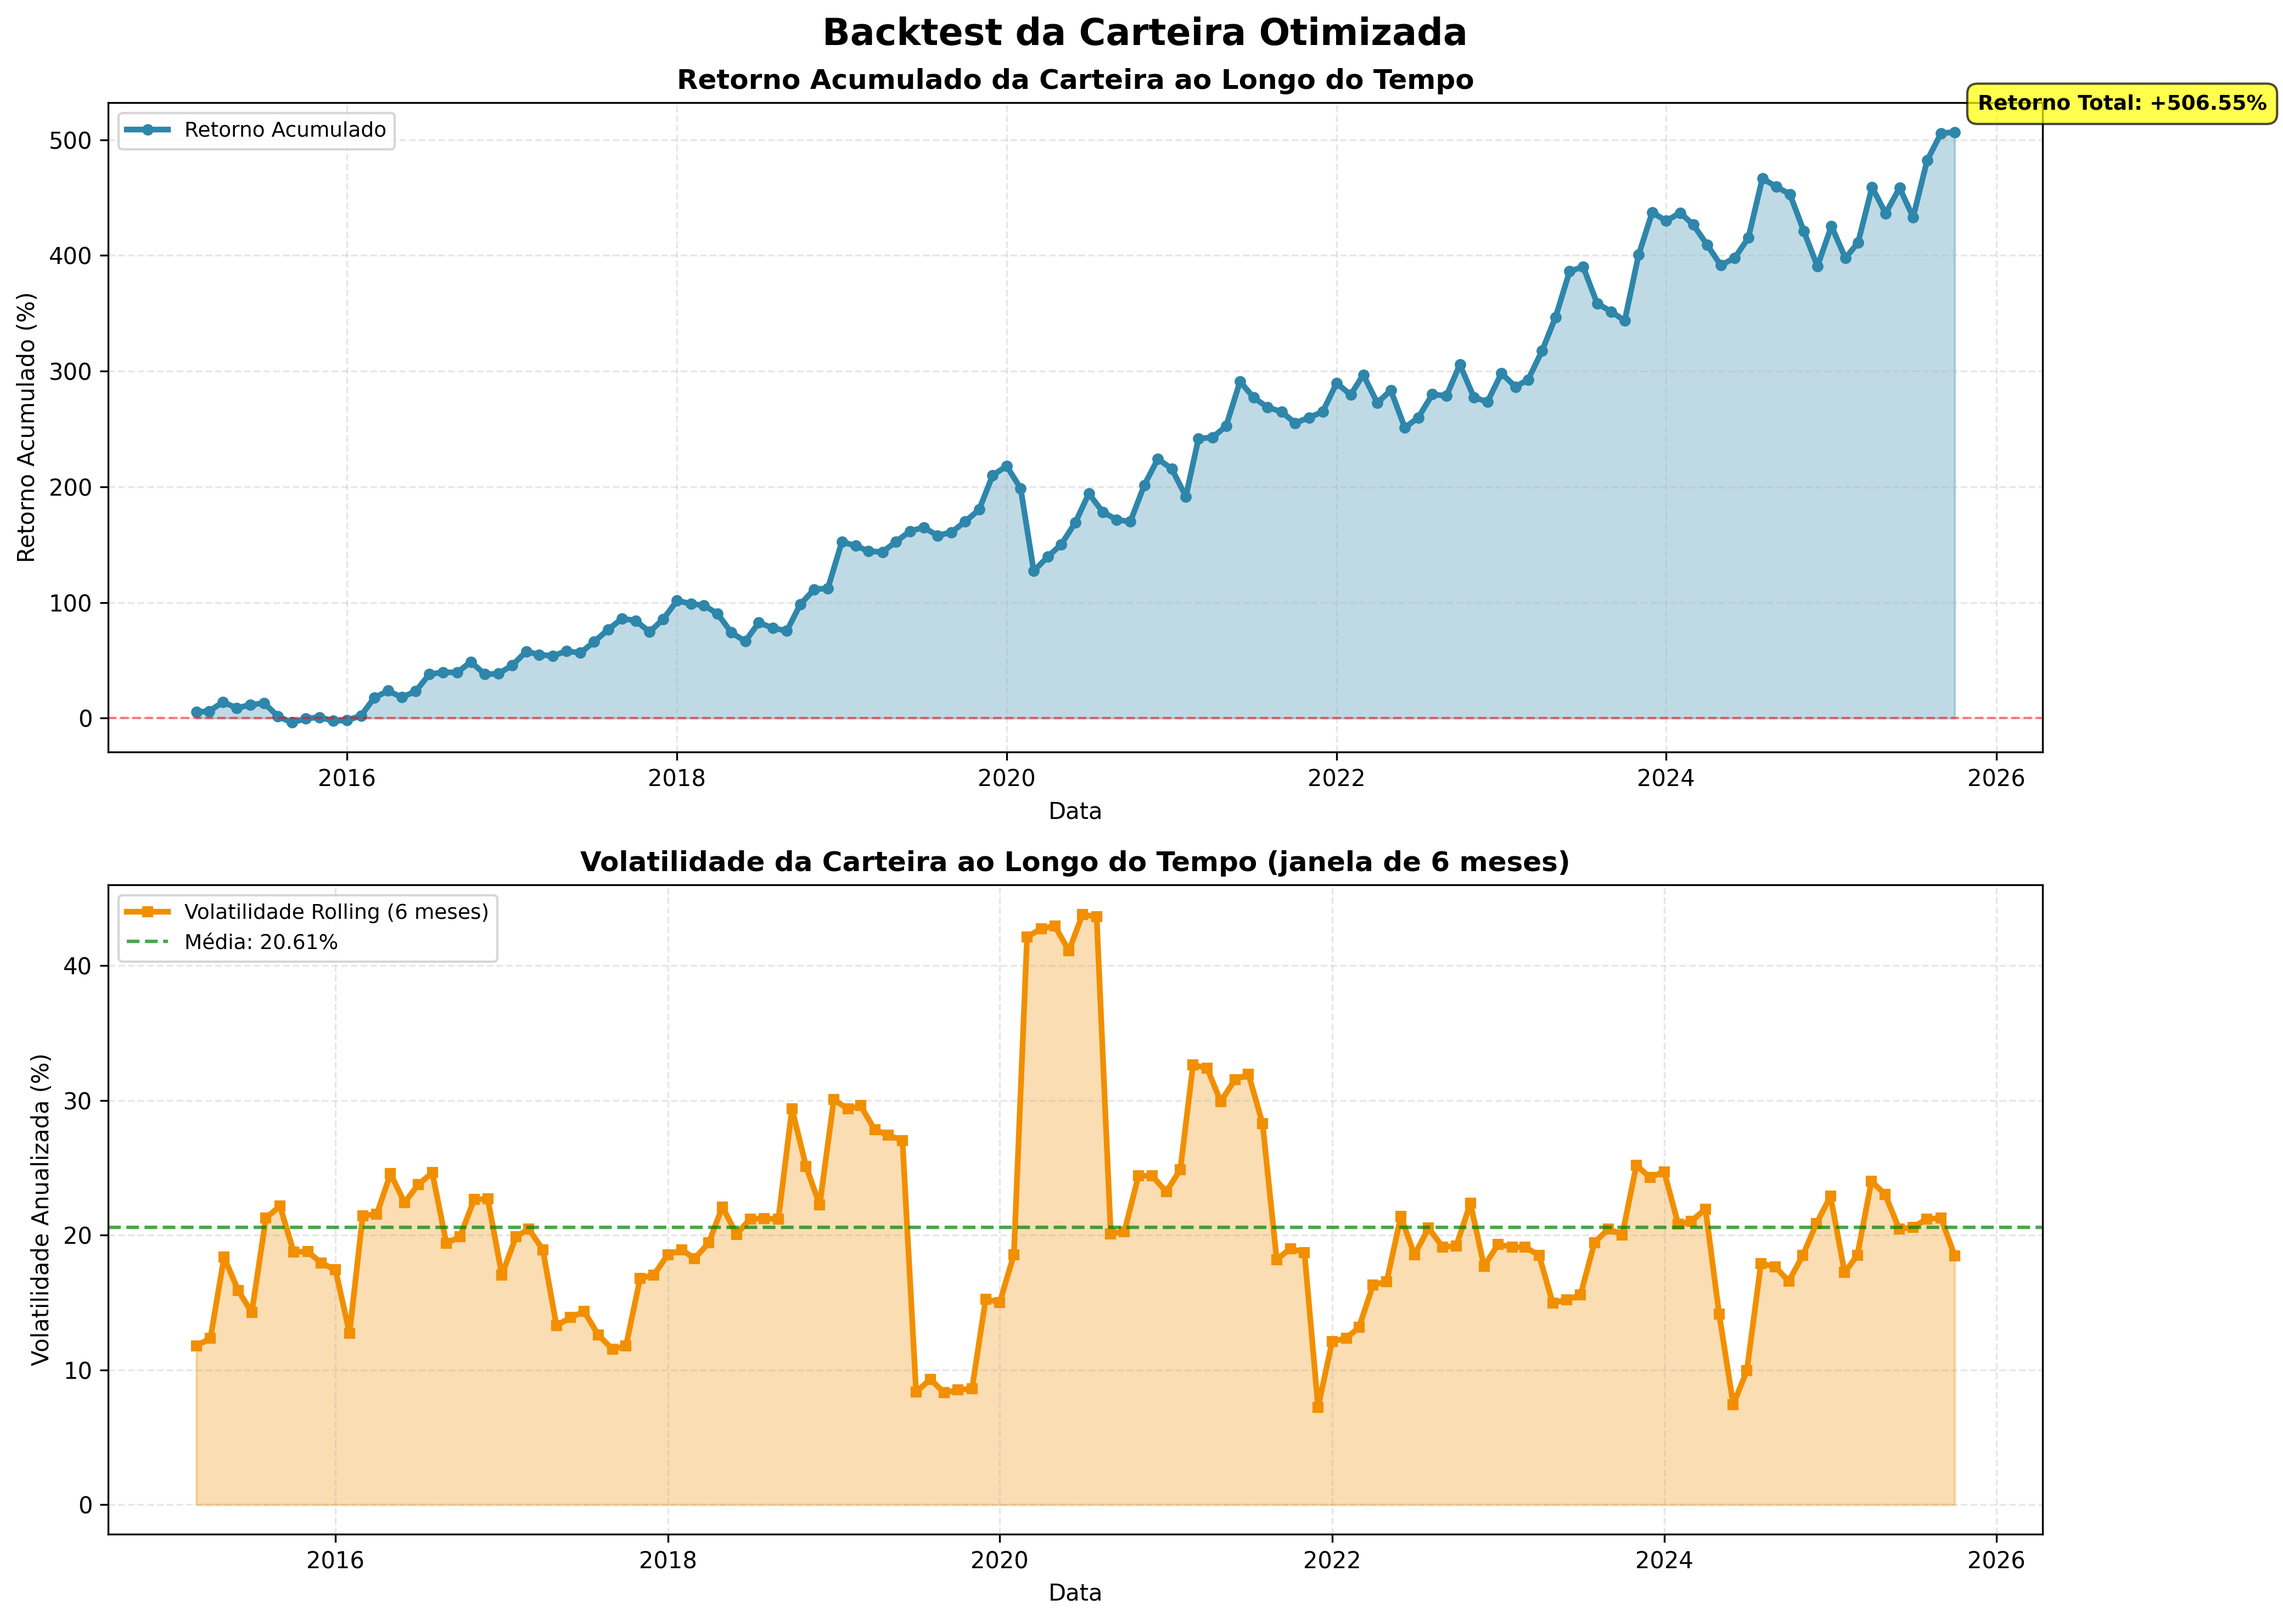
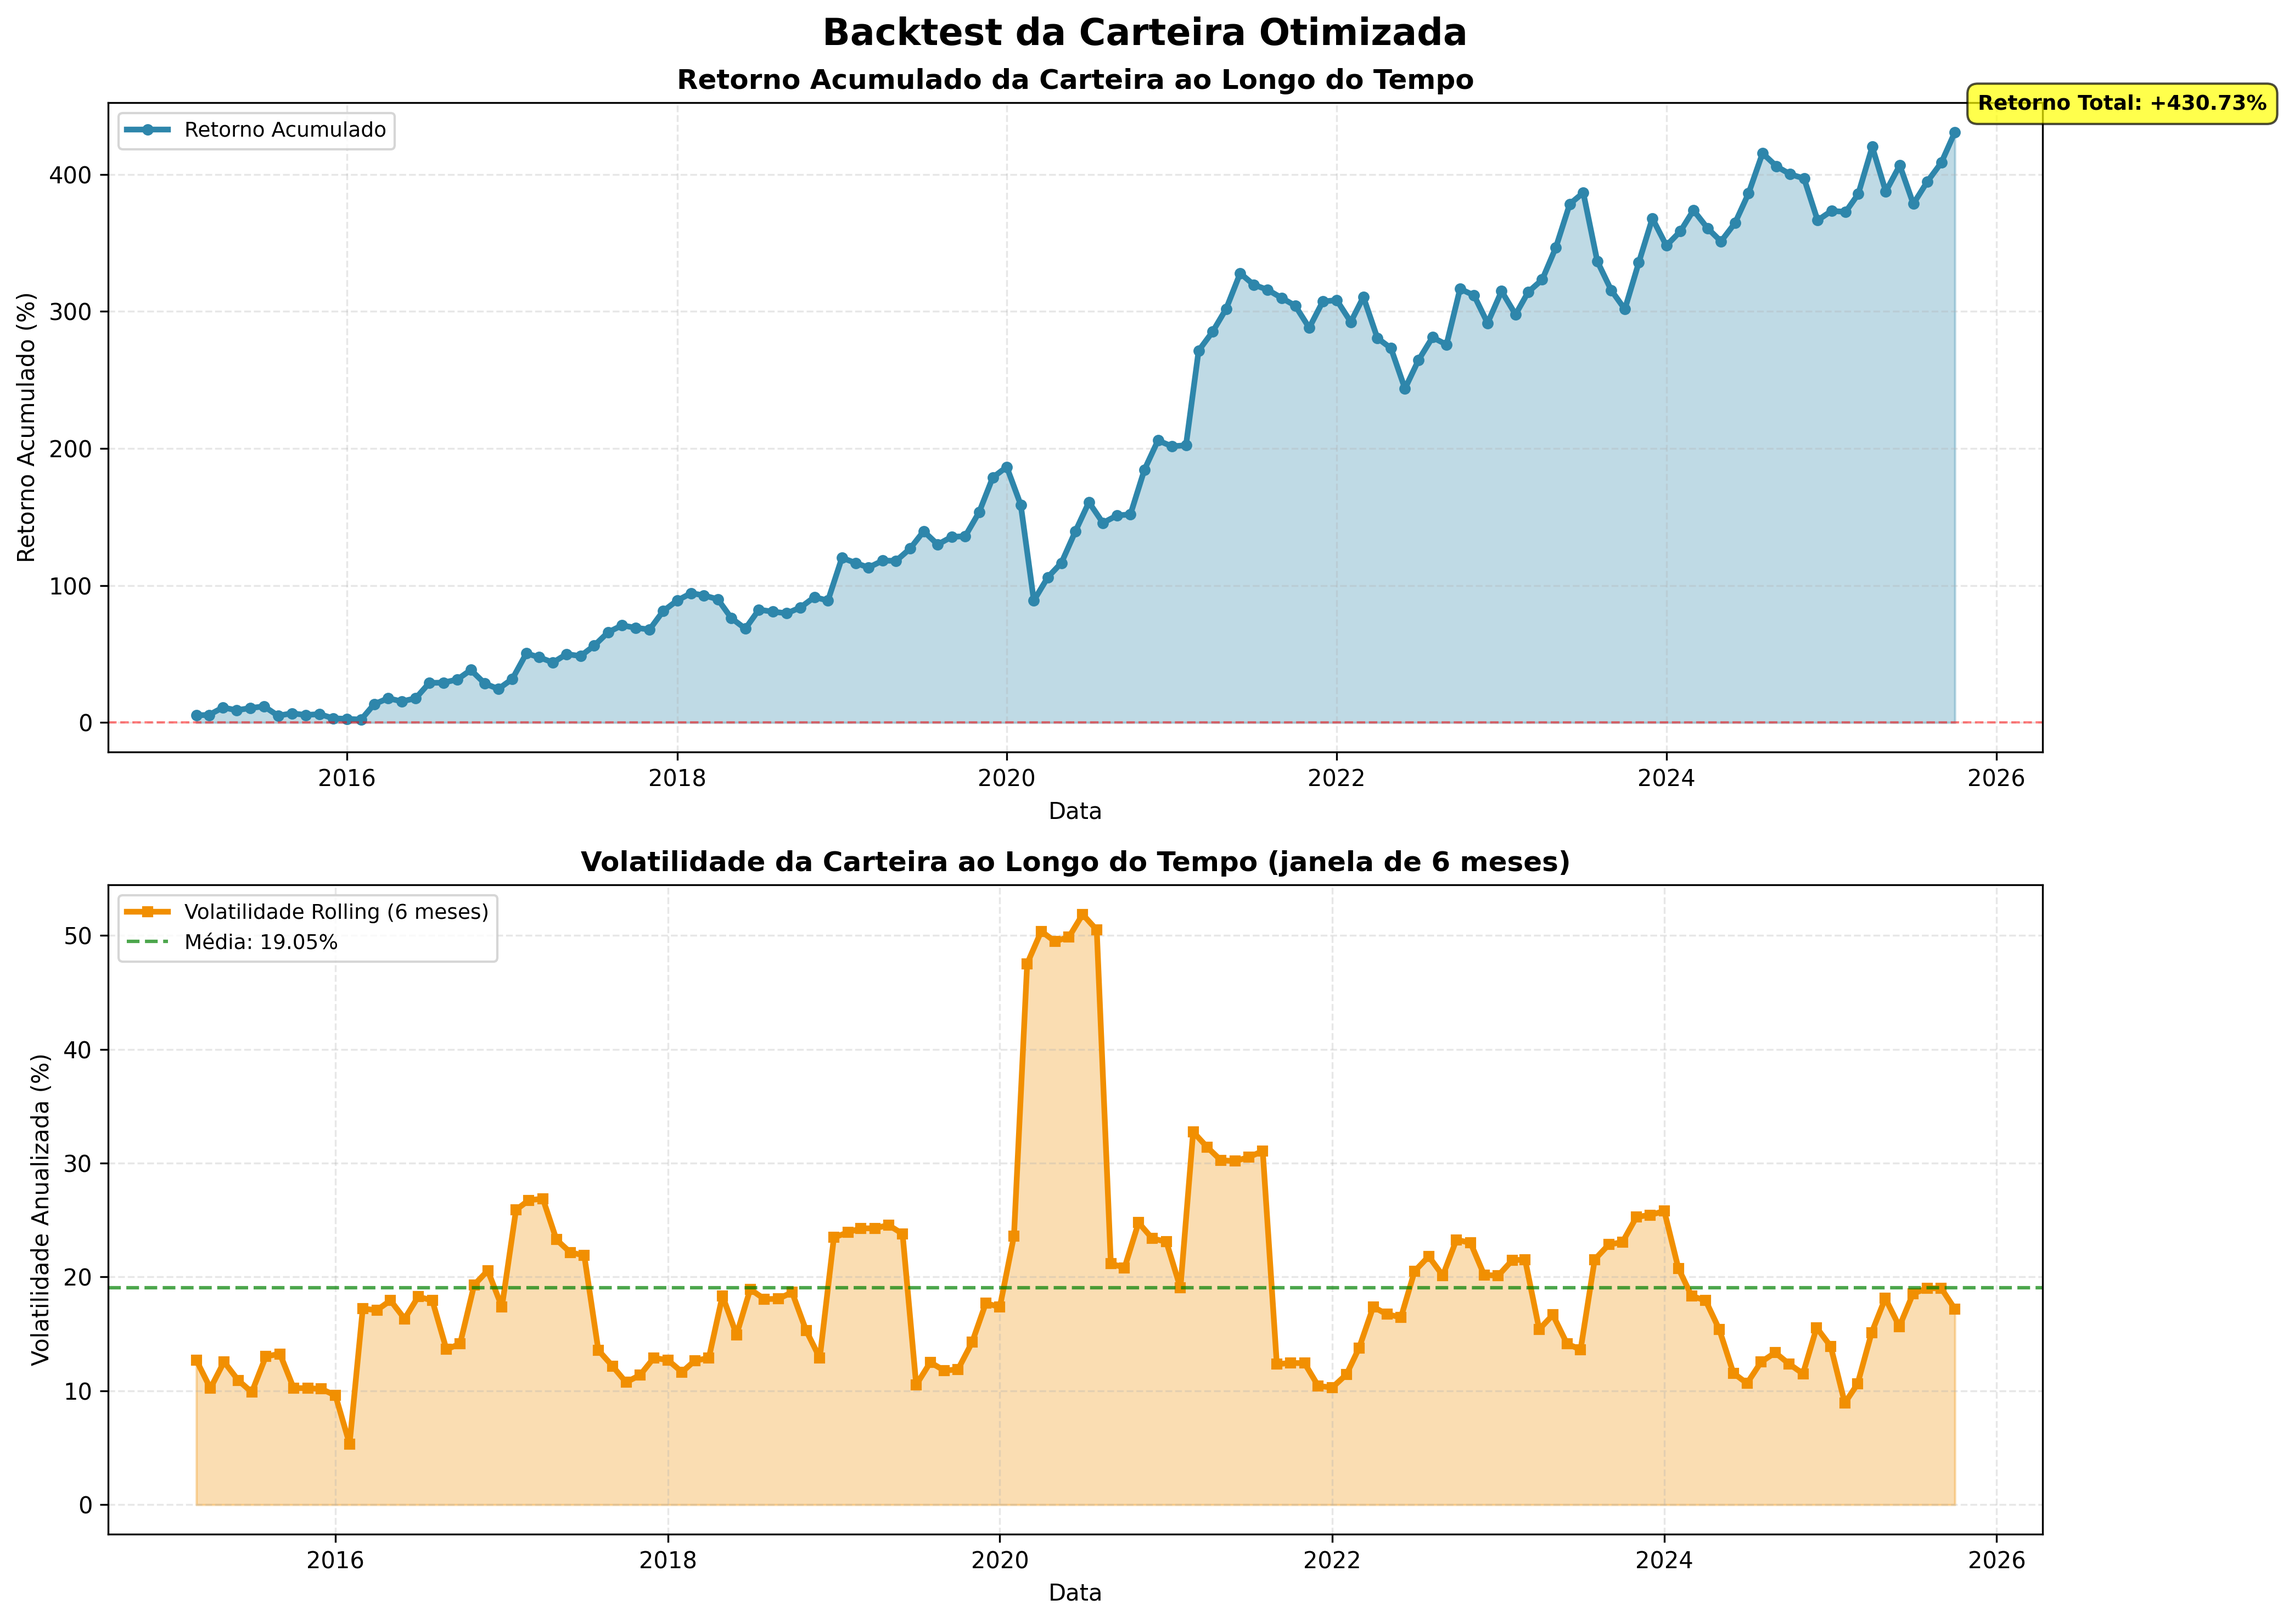
Revert "Fix R-HV regression: nadir point and ASF formula"
This reverts commit 3f5666bed4da0692191d2635e116f104e5b84915.

diff --git a/backend/services/agmo/tuning/quality_metrics.py b/backend/services/agmo/tuning/quality_metrics.py
@@ -37,8 +37,7 @@ class QualityMetrics:
     def calculate_r_hypervolume(self, pareto_front: np.ndarray,
                                 reference_points: np.ndarray,
                                 ideal_point: Optional[np.ndarray] = None,
-                                nadir_point: Optional[np.ndarray] = None,
-                                weights: Optional[np.ndarray] = None) -> float:
+                                nadir_point: Optional[np.ndarray] = None) -> float:
         """
         Calcula o R-Hypervolume (R2 indicator) da fronteira de Pareto.
 
@@ -47,12 +46,12 @@ class QualityMetrics:
         pontos de referência fornecidos pelo usuário.
 
         O R2 indicator usa a Achievement Scalarizing Function (ASF):
-        R2 = 1/|Z| * Σ_{z∈Z} min_{a∈A} ASF(a, z, w)
+        R2 = 1/|W| * Σ_{w∈W} min_{a∈A} ASF(a, w)
 
-        Onde ASF(a, z, w) = max_i {(a_i - z_i) / w_i}
-        - a: solução (normalizada)
-        - z: ponto de referência (aspiração)
-        - w: vetor de pesos
+        Onde ASF(a, w) = max_i {(a_i - z_i) / w_i}
+        - a: solução
+        - w: vetor de pesos (ponto de referência)
+        - z: ponto ideal
 
         IMPORTANTE: Quanto MENOR o R2, MELHOR a qualidade!
         Mas para consistência com outras métricas onde "maior é melhor",
@@ -60,10 +59,9 @@ class QualityMetrics:
 
         Args:
             pareto_front: Array (n_solutions, n_objectives) com objetivos
-            reference_points: Array (n_ref_points, n_objectives) com pontos de referência (aspirações)
+            reference_points: Array (n_ref_points, n_objectives) com pontos de referência
             ideal_point: Ponto ideal (valores mínimos). Se None, usa min da fronteira.
             nadir_point: Ponto nadir (valores máximos). Se None, usa max da fronteira.
-            weights: Array (n_objectives,) com pesos para ASF. Se None, usa pesos uniformes.
 
         Returns:
             Valor do R-HV = 1/R2 (maior = melhor qualidade, sempre positivo)
@@ -101,14 +99,6 @@ class QualityMetrics:
         # mas vamos garantir que estão no formato correto
         normalized_ref_points = reference_points.copy()
 
-        # Se weights não fornecido, usa pesos uniformes
-        if weights is None:
-            n_objectives = pareto_front.shape[1]
-            weights = np.ones(n_objectives) / n_objectives
-            logger.debug(f"Usando pesos uniformes para ASF: {weights}")
-        else:
-            logger.debug(f"Usando pesos fornecidos para ASF: {weights}")
-
         # Calcula R2 indicator
         r2_sum = 0.0
         n_ref_points = len(normalized_ref_points)
@@ -118,14 +108,10 @@ class QualityMetrics:
             min_asf = float('inf')
 
             for solution in normalized_front:
-                # CORREÇÃO: ASF(a, z, w) = max_i {(a_i - z_i) / w_i}
-                # - a_i: valor normalizado da solução no objetivo i
-                # - z_i: ponto de referência (aspiração) no objetivo i
-                # - w_i: peso do objetivo i
+                # ASF(a, w) = max_i {(a_i - 0) / w_i}
+                # Nota: usamos 0 como ideal pois já normalizamos
                 # Evita divisão por zero nos pesos
-                asf_values = np.where(weights > 1e-6,
-                                     (solution - ref_point) / weights,
-                                     (solution - ref_point) * 1e6)
+                asf_values = np.where(ref_point > 1e-6, solution / ref_point, solution * 1e6)
                 asf = np.max(asf_values)
 
                 if asf < min_asf:
@@ -423,7 +409,6 @@ class QualityMetrics:
                               ideal_point: Optional[np.ndarray] = None,
                               reference_points: Optional[np.ndarray] = None,
                               nadir_point: Optional[np.ndarray] = None,
-                              weights: Optional[np.ndarray] = None,
                               use_r_hv: bool = True) -> dict:
         """
         Calcula todas as métricas de qualidade.
@@ -433,7 +418,6 @@ class QualityMetrics:
             ideal_point: Ponto ideal para cálculo de hypervolume
             reference_points: Pontos de referência para R-HV (usado se use_r_hv=True)
             nadir_point: Ponto nadir para normalização do R-HV
-            weights: Pesos para ASF no cálculo de R-HV
             use_r_hv: Se True e reference_points fornecido, usa R-HV ao invés de HV
 
         Returns:
@@ -442,7 +426,7 @@ class QualityMetrics:
         # Decide qual métrica de hypervolume usar
         if use_r_hv and reference_points is not None:
             hv_value = self.calculate_r_hypervolume(
-                pareto_front, reference_points, ideal_point, nadir_point, weights
+                pareto_front, reference_points, ideal_point, nadir_point
             )
             hv_key = 'r_hypervolume'
         else:
@@ -490,7 +474,6 @@ class ConvergenceTracker:
 
     def __init__(self, reference_point: Optional[np.ndarray] = None,
                  reference_points_rnsga2: Optional[np.ndarray] = None,
-                 weights: Optional[np.ndarray] = None,
                  use_r_hv: bool = True):
         """
         Inicializa o rastreador.
@@ -500,7 +483,6 @@ class ConvergenceTracker:
                            Se None, será determinado na primeira geração.
             reference_points_rnsga2: Pontos de referência do R-NSGA2 para cálculo de R-HV.
                                      Array (n_ref_points, n_objectives).
-            weights: Pesos para ASF no cálculo de R-HV. Array (n_objectives,).
             use_r_hv: Se True e reference_points_rnsga2 fornecido, usa R-HV ao invés de HV.
         """
         # Decide qual chave usar no histórico
@@ -518,7 +500,6 @@ class ConvergenceTracker:
         self.reference_point = reference_point
         self.reference_point_set = reference_point is not None
         self.reference_points_rnsga2 = reference_points_rnsga2
-        self.weights = weights  # Pesos para ASF
         self.use_r_hv = use_r_hv and reference_points_rnsga2 is not None
         self.ideal_point = None  # Melhores valores já vistos (global)
         self.ideal_point_set = False
@@ -569,16 +550,19 @@ class ConvergenceTracker:
                     logger.info(f"🎯 Ponto ideal ATUALIZADO: {self.ideal_point}")
                     logger.info(f"   Melhoria: {old_ideal - self.ideal_point}")
 
-            # Define ponto nadir FIXO na primeira geração (PIOR CASO) - usado para R-HV
-            # CORREÇÃO: Nadir deve ser FIXO, não acumulativo, para evitar regressão do R-HV
+            # Atualiza ponto nadir GLOBAL (PIOR CASO acumulado) - usado para R-HV
             if not self.nadir_point_set:
-                # Adiciona margem de 50% para garantir que o nadir seja pior que qualquer solução
-                self.nadir_point = max_values * 1.5
+                self.nadir_point = max_values.copy()
                 self.nadir_point_set = True
                 if self.use_r_hv:
-                    logger.info(f"📍 Ponto nadir FIXO (pior caso gen 0 + 50%): {self.nadir_point}")
-                    logger.info(f"   Max da gen 0: {max_values}")
-                    logger.info(f"   ⚠  NADIR SERÁ MANTIDO FIXO para evitar regressão do R-HV")
+                    logger.info(f"📍 Ponto nadir INICIAL (pior caso gen 0): {self.nadir_point}")
+            else:
+                old_nadir = self.nadir_point.copy()
+                self.nadir_point = np.maximum(self.nadir_point, max_values)
+
+                if not np.array_equal(old_nadir, self.nadir_point):
+                    if self.use_r_hv:
+                        logger.info(f"📍 Ponto nadir ATUALIZADO: {self.nadir_point}")
 
             if self.use_r_hv:
                 logger.info(f"   ✅ R-HV: Usando {len(self.reference_points_rnsga2)} pontos de referência do R-NSGA2")
@@ -606,7 +590,6 @@ class ConvergenceTracker:
             ideal_point=self.ideal_point,
             reference_points=self.reference_points_rnsga2,
             nadir_point=self.nadir_point,
-            weights=self.weights,
             use_r_hv=self.use_r_hv
         )
 

diff --git a/backend/services/agmo/tuning/hyperparameter_tuning_service.py b/backend/services/agmo/tuning/hyperparameter_tuning_service.py
@@ -33,8 +33,7 @@ from concurrent.futures import ThreadPoolExecutor, as_completed
 from .quality_metrics import QualityMetrics, ConvergenceTracker
 from services.agmo.agmo_service import (
     Nsga2OtimizacaoService,
-    REFERENCE_POINTS_CONFIG,
-    WEIGHTS_CONFIG
+    REFERENCE_POINTS_CONFIG
 )
 
 logger = logging.getLogger(__name__)
@@ -106,9 +105,8 @@ class HyperparameterTuningService:
         # Prepara dados para otimização
         service = Nsga2OtimizacaoService(self.app, [], risk_level, 10, asset_ids=ids_assets)
 
-        # Obtém pontos de referência e pesos do R-NSGA2 para o perfil de risco (configuração centralizada)
+        # Obtém pontos de referência do R-NSGA2 para o perfil de risco (configuração centralizada)
         ref_points = REFERENCE_POINTS_CONFIG.get(risk_level)
-        weights = WEIGHTS_CONFIG.get(risk_level)
 
         # Múltiplas execuções para análise estatística
         all_runs = []
@@ -118,7 +116,6 @@ class HyperparameterTuningService:
             # Executa otimização com tracking de convergência usando R-HV
             convergence_tracker = ConvergenceTracker(
                 reference_points_rnsga2=ref_points,
-                weights=weights,
                 use_r_hv=True
             )
 
@@ -236,13 +233,11 @@ class HyperparameterTuningService:
         """
         service = Nsga2OtimizacaoService(self.app, [], risk_level, asset_ids=ids_assets, years_period=3)
 
-        # Obtém pontos de referência e pesos do R-NSGA2 para o perfil de risco
+        # Obtém pontos de referência do R-NSGA2 para o perfil de risco
         ref_points = REFERENCE_POINTS_CONFIG.get(risk_level)
-        weights = WEIGHTS_CONFIG.get(risk_level)
 
         convergence_tracker = ConvergenceTracker(
             reference_points_rnsga2=ref_points,
-            weights=weights,
             use_r_hv=True
         )
 

diff --git a/backend/services/agmo/tuning/exemplo_tuning.py b/backend/services/agmo/tuning/exemplo_tuning.py
@@ -63,8 +63,8 @@ def example_1_convergence_analysis():
         resultados = tuning_service.convergence_analysis(
             ids_assets=ids_assets,
             risk_level='moderado',
-            max_generations=200,
-            population_size=200,
+            max_generations=100,
+            population_size=100,
             n_runs=1
         )
 
